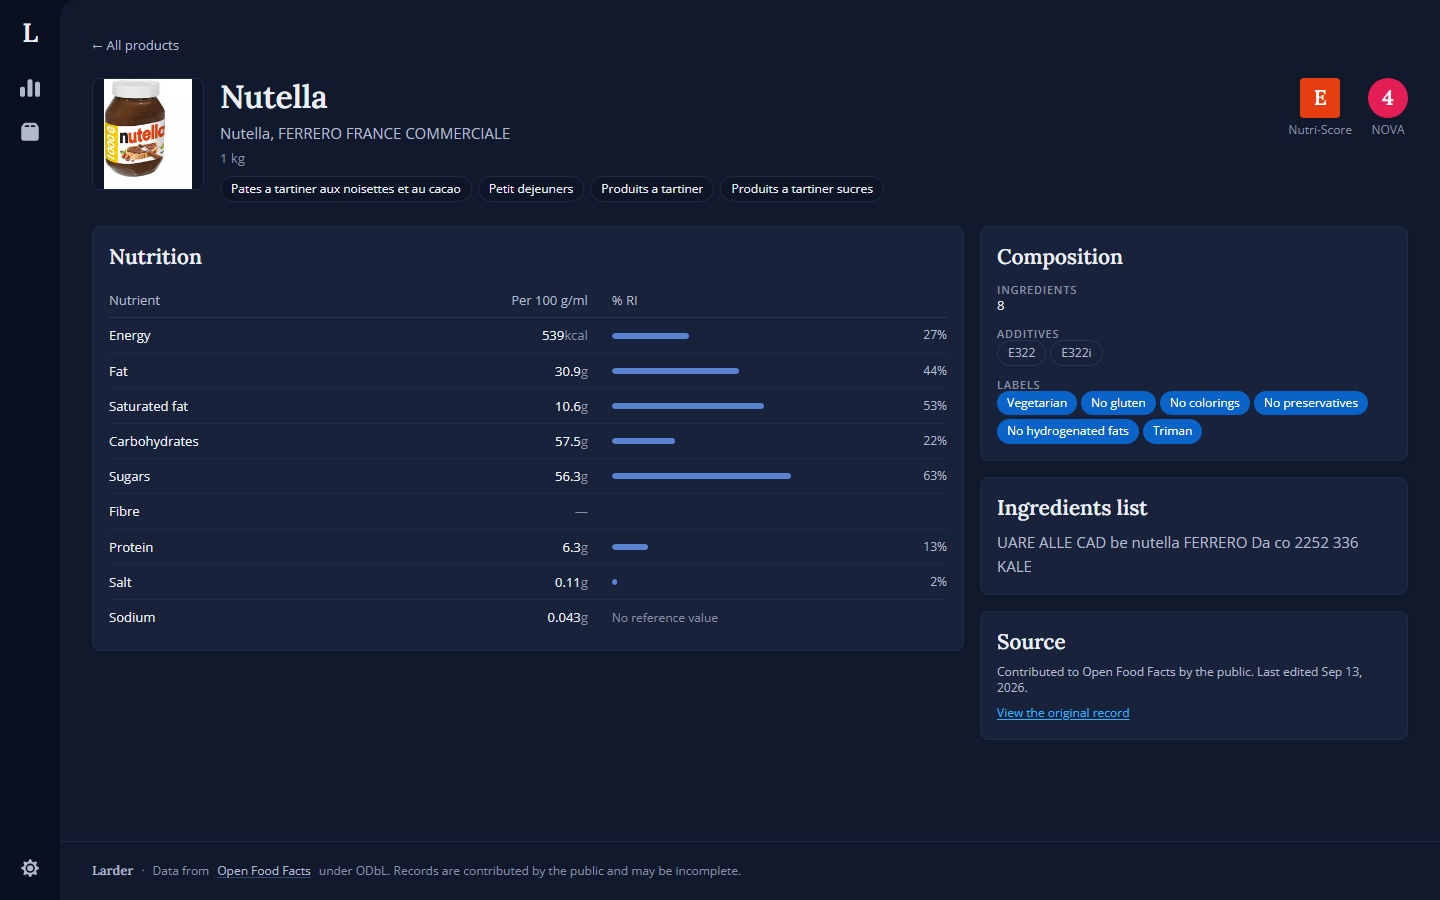
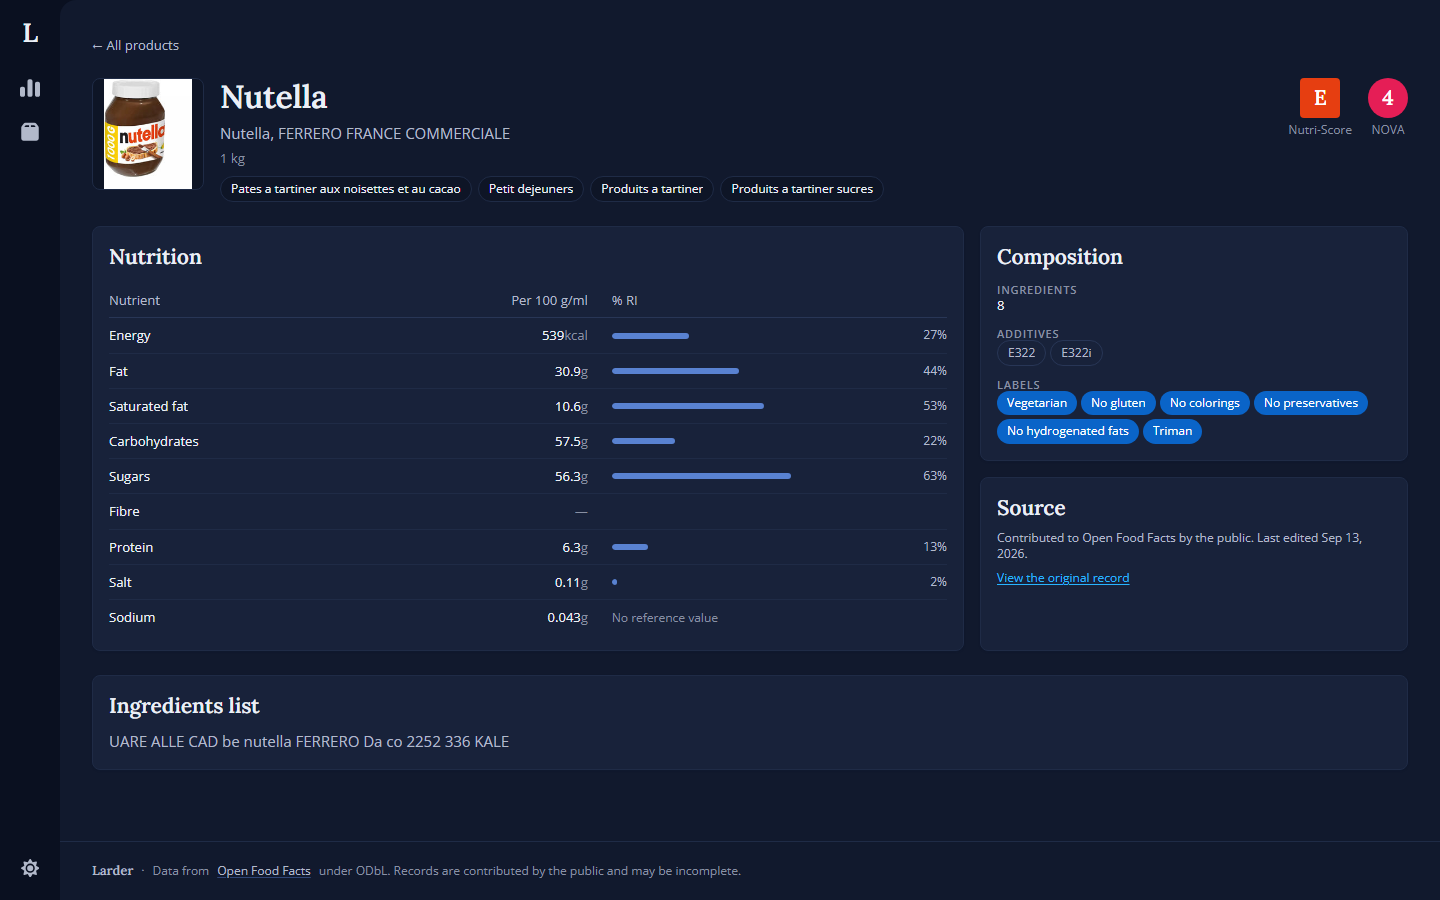
fix(product): let the right column fill the height of the nutrition card
The grid stretches both columns and the two cards in the right one are
flex-1, so they split what is left once the gap is removed. No height is
declared, and below lg the columns stack without stretching.

Changed region(s): [[0.6875, 0.56, 0.9375, 0.6533], [0.0625, 0.7778, 0.3438, 0.84], [0.6875, 0.6844, 0.7812, 0.8089]]

diff --git a/e2e/product-directory.spec.ts b/e2e/product-directory.spec.ts
@@ -316,3 +316,93 @@ test.describe('filter suggestions', () => {
     await expect(page).not.toHaveURL(/(category|brand|country|label)=/)
   })
 })
+
+/**
+ * The product page's first row: one column of cards filling the height of the
+ * card beside it.
+ *
+ * Asserted as an arithmetic relationship rather than against pixel values, and
+ * measured after a real layout, because this is the kind of rule a stray
+ * `items-start` or an `h-full` somewhere up the tree switches off without
+ * anything else changing. The page still renders; the column just stops
+ * reaching the bottom.
+ *
+ * The mobile case is the other half of the requirement. There is one column
+ * below `lg`, so there is nothing to fill, and stretching there would grow a
+ * card for no reason.
+ */
+test.describe('the product page columns', () => {
+  const CODE = '3017620425035'
+
+  /** Heights of the three cards in the first row, plus the gap between two of them. */
+  async function measure(page: Page) {
+    return page.evaluate(() => {
+      const card = (heading: string) =>
+        [...document.querySelectorAll('h2')]
+          .find((node) => node.textContent?.trim() === heading)
+          ?.closest('div[class*="rounded-card"]') as HTMLElement | undefined
+
+      const nutrition = card('Nutrition')!
+      const composition = card('Composition')!
+      const source = card('Source')!
+
+      return {
+        nutrition: nutrition.getBoundingClientRect().height,
+        composition: composition.getBoundingClientRect().height,
+        source: source.getBoundingClientRect().height,
+        gap: parseFloat(getComputedStyle(composition.parentElement!).rowGap),
+        // Every height here has to come from the layout, never from a number
+        // someone typed.
+        declared: [nutrition, composition, source].map((el) => el.style.height).join(''),
+      }
+    })
+  }
+
+  test('the right column fills the height of the nutrition card', async ({ page }) => {
+    await page.setViewportSize({ width: 1440, height: 900 })
+    await page.goto(`/products/${CODE}`)
+    await page.getByRole('heading', { name: 'Source' }).waitFor()
+
+    const measured = await measure(page)
+
+    expect(measured.declared, 'a height was hard-coded').toBe('')
+    expect(measured.composition + measured.gap + measured.source).toBeCloseTo(
+      measured.nutrition,
+      0,
+    )
+  })
+
+  test('nothing is stretched once the columns stack', async ({ page }) => {
+    await page.setViewportSize({ width: 400, height: 900 })
+    await page.goto(`/products/${CODE}`)
+    await page.getByRole('heading', { name: 'Source' }).waitFor()
+
+    const measured = await measure(page)
+
+    expect(measured.composition + measured.gap + measured.source).toBeLessThan(
+      measured.nutrition,
+    )
+  })
+
+  /**
+   * The ingredients paragraph belongs under both columns rather than inside
+   * one, so it is as wide as the row above it.
+   */
+  test('the ingredients list spans the full row', async ({ page }) => {
+    await page.setViewportSize({ width: 1440, height: 900 })
+    await page.goto(`/products/${CODE}`)
+
+    const ingredients = page
+      .getByRole('heading', { name: 'Ingredients list' })
+      .locator('xpath=..')
+    const nutrition = page.getByRole('heading', { name: 'Nutrition' }).locator('xpath=..')
+
+    const [wide, narrow] = await Promise.all([
+      ingredients.evaluate((el) => el.getBoundingClientRect().width),
+      nutrition.evaluate((el) => el.getBoundingClientRect().width),
+    ])
+
+    expect(wide).toBeGreaterThan(narrow)
+  })
+})
+

diff --git a/app/pages/products/[code].vue b/app/pages/products/[code].vue
@@ -123,18 +123,16 @@ const isNotFound = computed(
       </header>
 
       <!--
-        Two columns that end where their content ends, rather than one stretched
-        to match the other. The nutrition table is nine fixed rows; the right
-        column runs from a single label to a dozen, and filling it to match
-        would leave a card two thirds empty, which reads as something that
-        failed to load.
+        The nutrition table sets the height of the row, and the column beside it
+        divides that height rather than ending where its content does.
 
-        The ingredients paragraph sits in that column for the same reason it no
-        longer spans the page: prose at the full width of a desktop is far past
-        a readable measure, and it is what balances the two sides for most
-        products.
+        Mechanically: the grid stretches both columns to the taller of the two,
+        and the two cards inside the right one are `flex-1`, so they take an
+        equal share of whatever is left once the gap between them is removed.
+        No height is declared anywhere, so the row still grows with the content
+        of either side and collapses to a single column below `lg`.
       -->
-      <div class="grid items-start gap-4 lg:grid-cols-3">
+      <div class="grid gap-4 lg:grid-cols-3">
         <UiSurfaceCard class="lg:col-span-2">
           <h2 class="mb-3 text-heading text-ink">Nutrition</h2>
 
@@ -146,7 +144,7 @@ const isNotFound = computed(
         </UiSurfaceCard>
 
         <div class="flex flex-col gap-4">
-          <UiSurfaceCard>
+          <UiSurfaceCard class="flex-1">
             <h2 class="mb-3 text-heading text-ink">Composition</h2>
 
             <dl class="flex flex-col gap-3 text-label">
@@ -190,12 +188,7 @@ const isNotFound = computed(
             </dl>
           </UiSurfaceCard>
 
-          <UiSurfaceCard v-if="product?.ingredientsText">
-            <h2 class="mb-2 text-heading text-ink">Ingredients list</h2>
-            <p class="text-body text-ink-muted">{{ product.ingredientsText }}</p>
-          </UiSurfaceCard>
-
-          <UiSurfaceCard v-if="product">
+          <UiSurfaceCard v-if="product" class="flex-1">
             <h2 class="mb-2 text-heading text-ink">Source</h2>
             <p class="text-caption text-ink-muted">
               Contributed to Open Food Facts by the public.
@@ -212,6 +205,11 @@ const isNotFound = computed(
           </UiSurfaceCard>
         </div>
       </div>
+
+      <UiSurfaceCard v-if="product?.ingredientsText">
+        <h2 class="mb-2 text-heading text-ink">Ingredients list</h2>
+        <p class="text-body text-ink-muted">{{ product.ingredientsText }}</p>
+      </UiSurfaceCard>
 
     </template>
   </div>

diff --git a/docs/decisions.md b/docs/decisions.md
@@ -45,12 +45,13 @@ supports 7.
 
 ---
 
-**Cards are not stretched to equal height.** On the product page the nutrition
-table is nine fixed rows while the column beside it runs from one label to a
-dozen. Filling the short column to match would leave a card two thirds empty,
-which reads as something that failed to load; the ingredients paragraph moved
-into that column instead, which balances the two for most products and takes
-the prose off the full width of a desktop.
+**The product page's first row is sized by the nutrition table.** The column
+beside it divides that height rather than ending where its content does: the
+grid stretches both columns to the taller, and the two cards inside the right
+one are `flex-1`, so they take an equal share of what is left after the gap.
+Nothing declares a height, so the row still grows with either side and collapses
+to a single unstretched column below `lg`. The ingredients paragraph sits under
+both columns, where it is as wide as the row above it.
 
 ---
 
